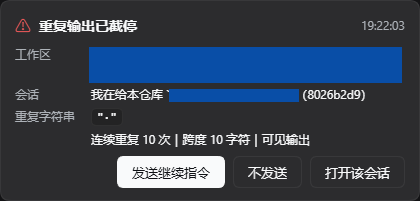
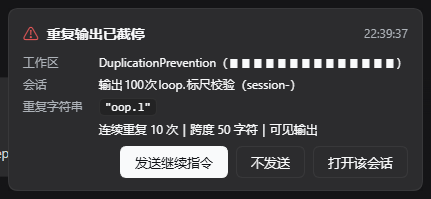
docs: re-shoot the store screenshots with element framing and privacy masking

diff --git a/CHANGELOG.md b/CHANGELOG.md
@@ -7,9 +7,13 @@
 ### Added
 
 - **市场展示截图**：新增 `screenshots/`（6 张 PNG，含商店展示顺序的 `screenshots.json`）。顺序按"它做什么 → 怎么演示 →
-  怎么配 → 进阶能力 → 安全边界"编排：截停通知卡 → 子代理被截停现场 → 设置页（重复次数 / 检测范围）→ 分段表模式 →
+  怎么配 → 进阶能力 → 安全边界"编排：截停通知卡 → 被截停的那一轮 → 设置页（重复次数，分段表模式）→ 分段表特写 →
   设置页（忽略白名单 / 截停通知 / 诊断行）→ 高级模式风险确认。截图中的工作区路径已打码。
   这些文件**不进 npm 包**（`files` 白名单未包含），仅供 GitHub/商店读取。
+- **截图重拍（2026-10-15，改用 Playwright 驱动浏览器）**：统一视口 1600×1000、按元素取景（设置页只截面板、会话只截对话区），
+  并做隐私处理——工作区**绝对路径打码**（`D:\▮▮▮▮▮▮` 形式）、会话 id 由卡片自身截断或打码、画面不含侧栏其它项目、
+  余额/账号区域一律排除在取景之外。演示用的重复内容刻意**只用白名单之外的字符**（`loop.`：`l/o/p/.` 均不在
+  `- | # 1 a — 0 9 =` 与片段 `asdf` 中），因此卡片上显示的"重复字符串"就是字面原始串，不会被白名单剥离后改写。
 - **高级模式的隔离测试环境**（三件套，均不进 npm 包）：
   - `tools/sandbox-threshold-module.mjs`：**沙箱试运行**——在受限子进程里加载候选模块并打印每个单元长度的生效次数。
     隔离手段为 Node 权限模型（实测：写文件 / 子进程 / 越界读取一律 `ERR_ACCESS_DENIED`）+ 墙钟超时 + 堆上限；

diff --git a/README.md b/README.md
@@ -16,11 +16,11 @@
 
 ## 截图 / Screenshots
 
-| 截停通知（可选择是否继续） | 子代理的复读同样被截停 |
+| 截停通知（可选择是否继续） | 被截停的那一轮：输出停在阈值处 |
 | --- | --- |
-| ![截停通知卡](screenshots/01-stop-notice.png) | ![子代理被截停](screenshots/02-subagent-stopped.png) |
+| ![截停通知卡](screenshots/01-stop-notice.png) | ![被截停的那一轮](screenshots/02-subagent-stopped.png) |
 
-| 设置页：重复次数与检测范围 | 分段表模式（按单元长度定次数） |
+| 设置页：重复次数（分段表模式） | 分段表：按单元长度决定次数 |
 | --- | --- |
 | ![设置页上半](screenshots/03-settings-repeat-counts.png) | ![分段表模式](screenshots/04-settings-length-table.png) |
 
